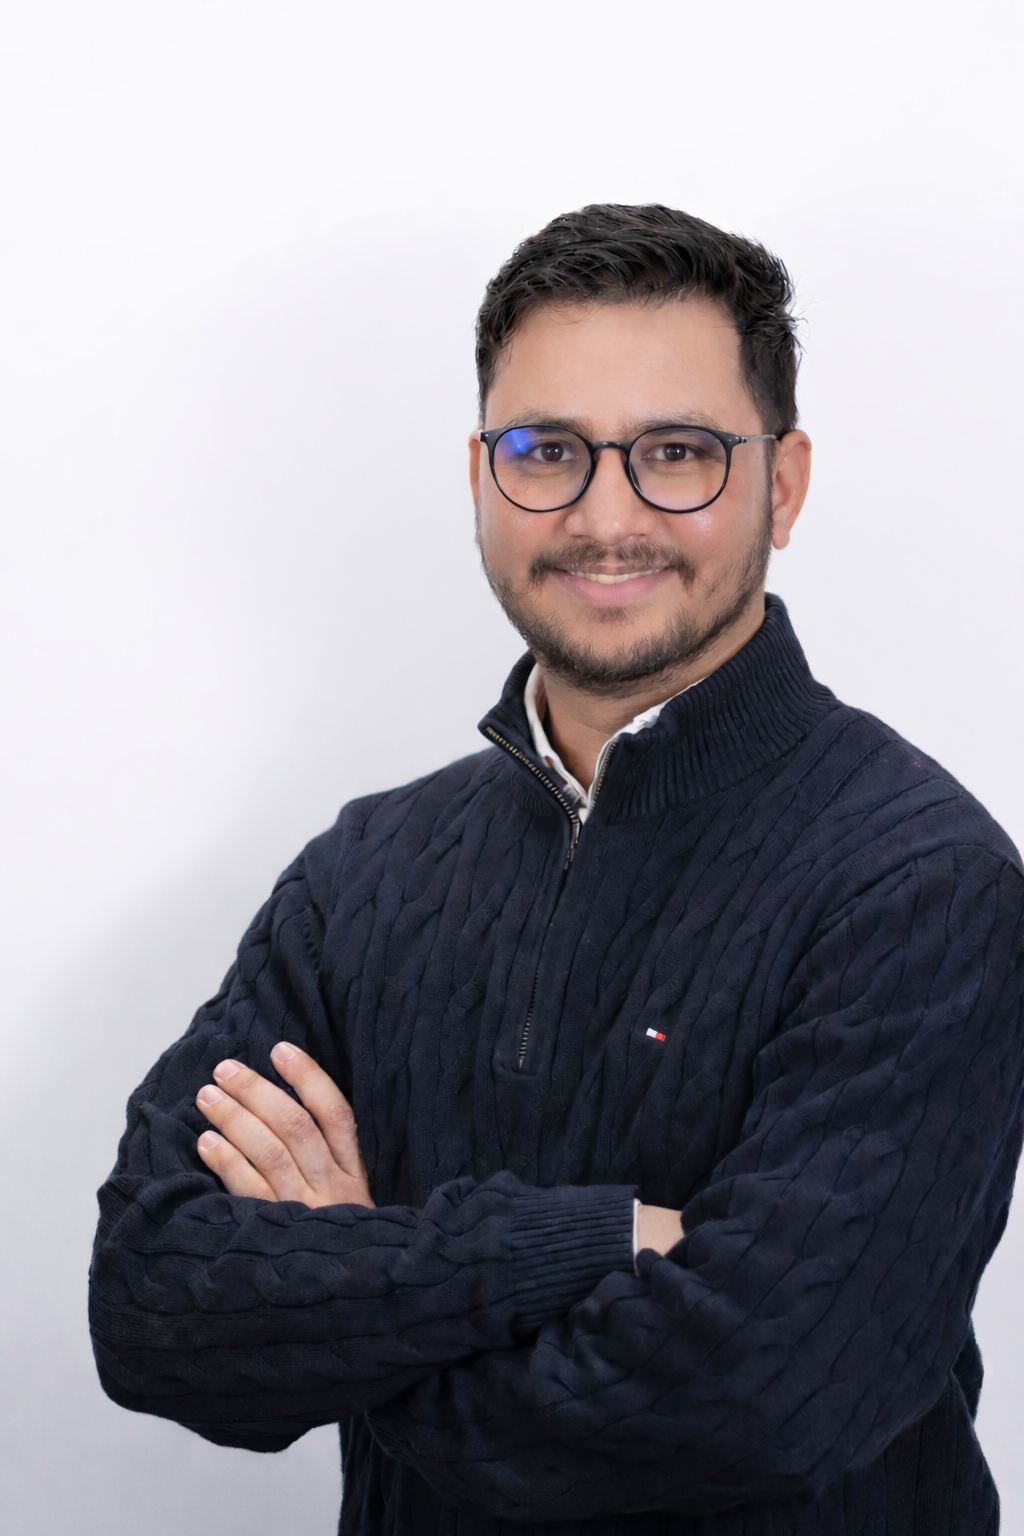
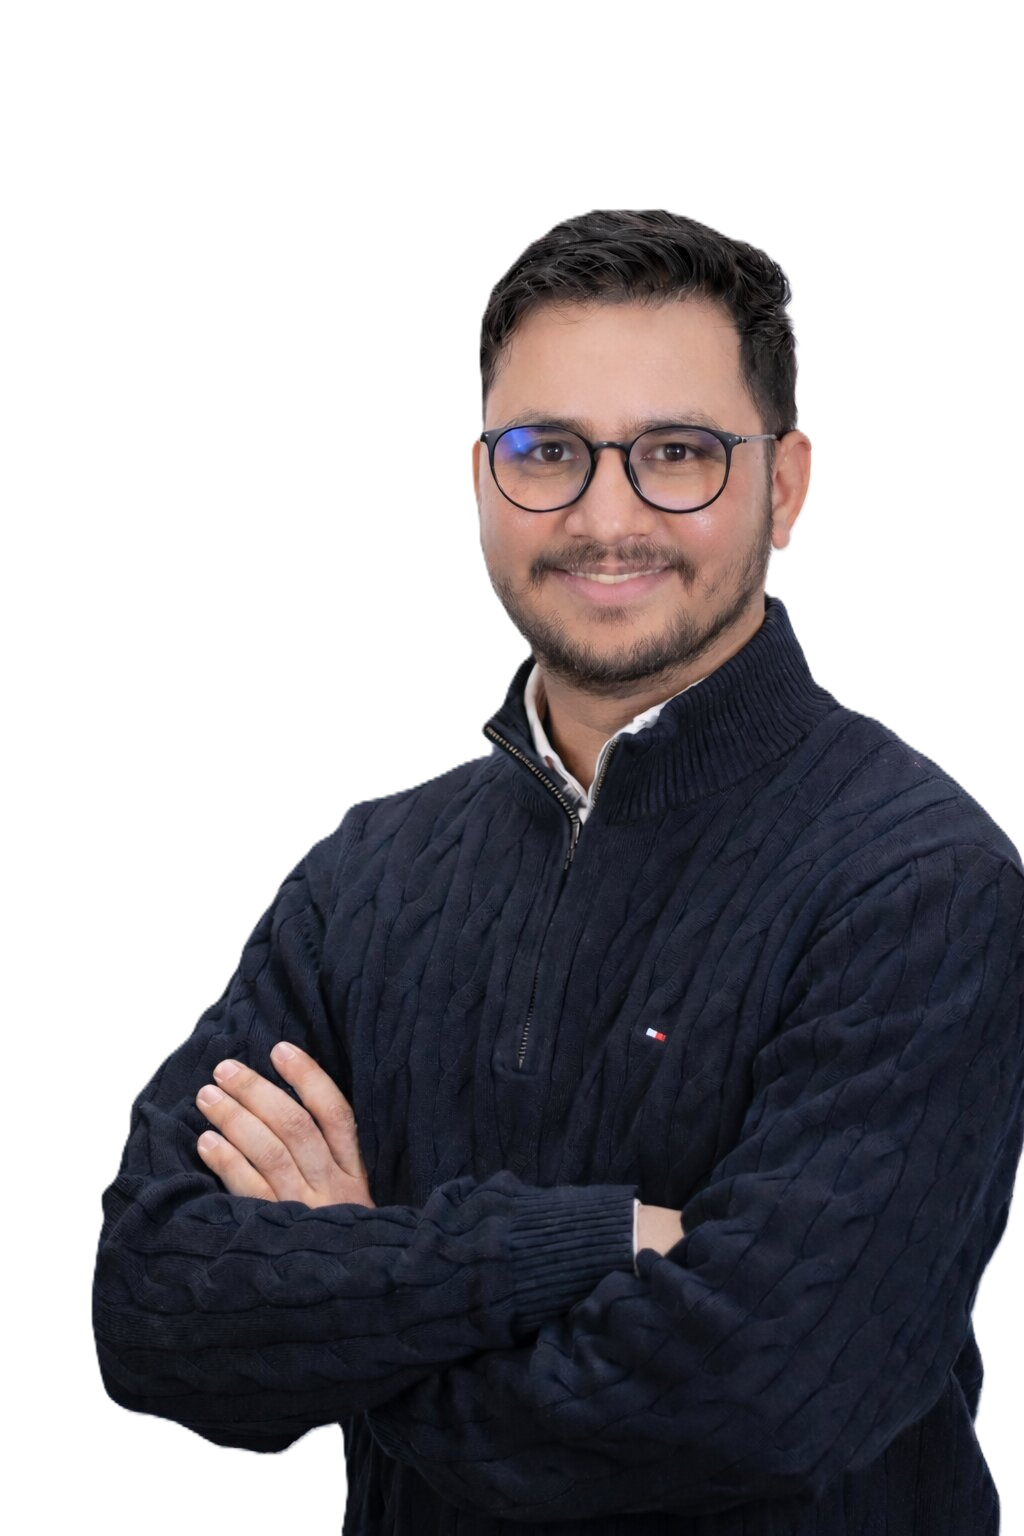
Adjust hero figure blend and positioning with updated PNG

diff --git a/index.html b/index.html
@@ -251,7 +251,7 @@
       border-radius: 24px;
       padding: 0;
       animation: fadeInUp 1.18s ease-out both;
-      min-height: 500px;
+      min-height: 560px;
       width: 100%;
       overflow: visible;
     }
@@ -261,6 +261,7 @@
       background: rgba(37, 114, 190, 0.72);
       border-radius: 4px;
       pointer-events: none;
+      z-index: 0;
     }
 
     .hero-shape-one {
@@ -292,22 +293,39 @@
       height: 100%;
     }
 
+    .hero-profile::before {
+      content: '';
+      position: absolute;
+      right: -10px;
+      bottom: -65px;
+      width: 430px;
+      height: 430px;
+      border-radius: 50%;
+      background: radial-gradient(circle, rgba(102, 219, 232, 0.30) 0%, rgba(78, 184, 219, 0.14) 48%, rgba(78, 184, 219, 0) 74%);
+      filter: blur(10px);
+      pointer-events: none;
+      z-index: 1;
+    }
+
     .intro-img {
       position: absolute;
-      right: -135px;
-      bottom: -100px;
-      width: 630px;
+      right: -115px;
+      bottom: -330px;
+      width: 620px;
       height: auto;
       display: block;
       max-width: none;
       object-fit: cover;
       object-position: center bottom;
+      mask-image: radial-gradient(125% 120% at 56% 42%, #000 62%, rgba(0, 0, 0, 0.92) 75%, transparent 100%);
+      -webkit-mask-image: radial-gradient(125% 120% at 56% 42%, #000 62%, rgba(0, 0, 0, 0.92) 75%, transparent 100%);
       border-radius: 0;
       border: 0;
       box-shadow: none;
-      filter: drop-shadow(0 20px 38px rgba(0, 0, 0, 0.34));
+      filter: saturate(0.98) brightness(1.02) drop-shadow(0 20px 38px rgba(0, 0, 0, 0.34));
       flex-shrink: 0;
       transition: var(--transition);
+      z-index: 2;
     }
 
     .intro-img:hover {
@@ -1175,7 +1193,7 @@
 
       .hero-right {
         max-width: 100%;
-        min-height: 430px;
+        min-height: 520px;
       }
 
       .hero-name {
@@ -1209,13 +1227,20 @@
       }
 
       .hero-right {
-        min-height: 350px;
+        min-height: 430px;
       }
 
       .intro-img {
         width: 470px;
-        right: -70px;
-        bottom: -78px;
+        right: -62px;
+        bottom: -245px;
+      }
+
+      .hero-profile::before {
+        right: -16px;
+        bottom: -65px;
+        width: 320px;
+        height: 320px;
       }
 
       .hero-shape-one {
@@ -1325,13 +1350,20 @@
       }
 
       .hero-right {
-        min-height: 285px;
+        min-height: 320px;
       }
 
       .intro-img {
         width: 330px;
-        right: -48px;
-        bottom: -45px;
+        right: -34px;
+        bottom: -155px;
+      }
+
+      .hero-profile::before {
+        right: -8px;
+        bottom: -34px;
+        width: 210px;
+        height: 210px;
       }
 
       .hero-shape-one,
